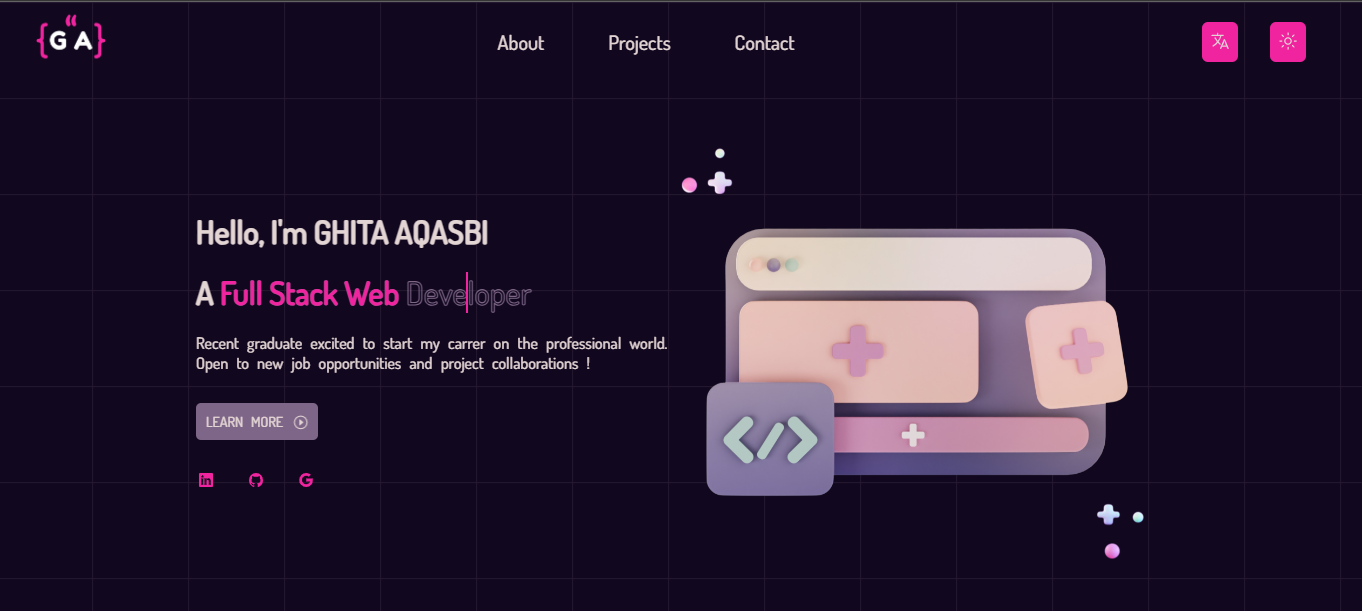
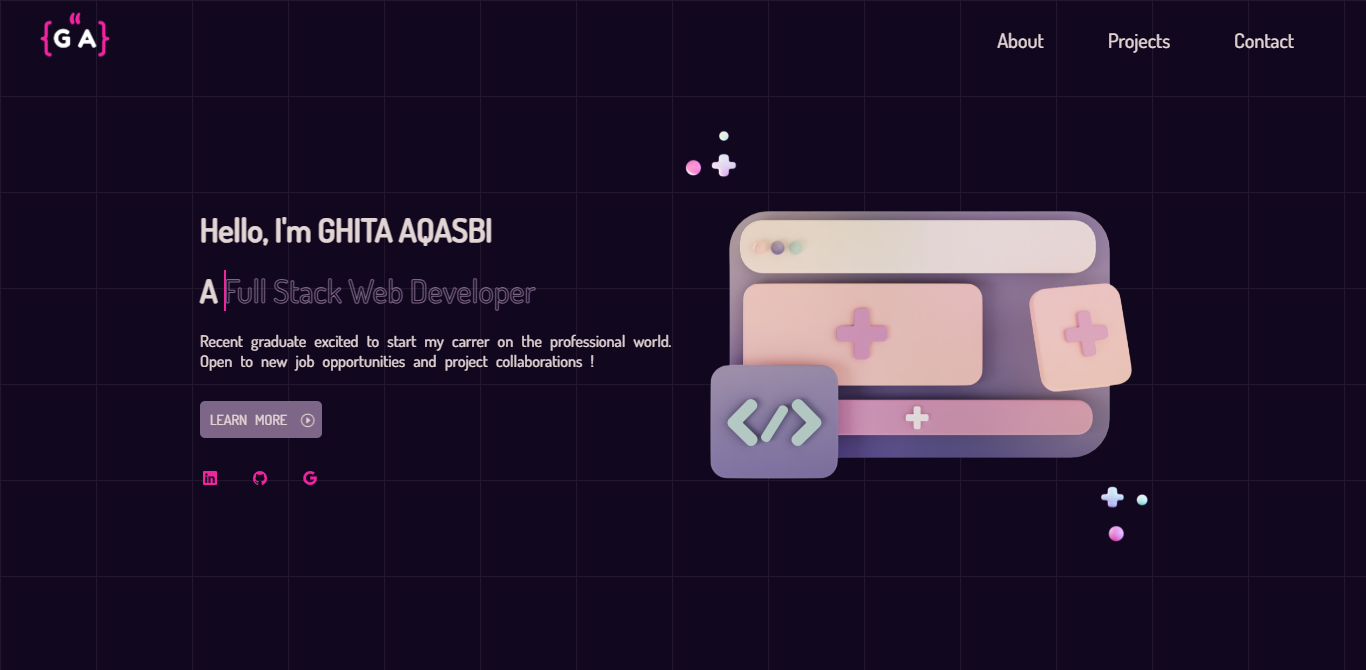
project done

diff --git a/pages/projects.html b/pages/projects.html
@@ -85,11 +85,8 @@ table a:hover{
             <li><a href="projects.html" class="active">Projects</a></li>
             <li><a href="contact.html">Contact</a></li>
         </ul>
-        <ul class="tools">
-            <li><a href=""><ion-icon name="language-outline"></ion-icon></a></li>
-            <li><a href=""><ion-icon name="sunny-outline"></ion-icon></a></li>
-            <li id="mobile-menu" onclick="mobilemenu()"><a href="#" ><ion-icon name="grid-outline"></ion-icon></a></li>
-        </ul>
+        <span id="mobile-menu" onclick="mobilemenu()"><ion-icon name="grid-outline"></ion-icon></span>
+
     </header>
 
     <div class="mobile-menu-overlay" id="mobileMenuOverlay">

diff --git a/pages/contact.html b/pages/contact.html
@@ -90,11 +90,8 @@ footer {
             <li><a href="projects.html">Projects</a></li>
             <li><a href="contact.html" class="active">Contact</a></li>
         </ul>
-        <ul class="tools">
-            <li><a href=""><ion-icon name="language-outline"></ion-icon></a></li>
-            <li><a href=""><ion-icon name="sunny-outline"></ion-icon></a></li>
-            <li id="mobile-menu" onclick="mobilemenu()"><a href="#" ><ion-icon name="grid-outline"></ion-icon></a></li>
-        </ul>
+        <span id="mobile-menu" onclick="mobilemenu()"><ion-icon name="grid-outline"></ion-icon></span>
+
     </header>
 
     <div class="mobile-menu-overlay" id="mobileMenuOverlay">

diff --git a/pages/about.html b/pages/about.html
@@ -90,11 +90,8 @@
             <li><a href="projects.html">Projects</a></li>
             <li><a href="contact.html">Contact</a></li>
         </ul>
-        <ul class="tools">
-            <li><a href=""><ion-icon name="language-outline"></ion-icon></a></li>
-            <li><a href=""><ion-icon name="sunny-outline"></ion-icon></a></li>
-            <li id="mobile-menu" onclick="mobilemenu()"><a href="#" ><ion-icon name="grid-outline"></ion-icon></a></li>
-        </ul>
+        <span id="mobile-menu" onclick="mobilemenu()"><ion-icon name="grid-outline"></ion-icon></span>
+
     </header>
 
     <div class="mobile-menu-overlay" id="mobileMenuOverlay">

diff --git a/index.html b/index.html
@@ -129,11 +129,7 @@
         <li><a href="pages/projects.html">Projects</a></li>
         <li><a href="pages/contact.html">Contact</a></li>
     </ul>
-    <ul class="tools">
-        <li><a href=""><ion-icon name="language-outline"></ion-icon></a></li>
-        <li><a href=""><ion-icon name="sunny-outline"></ion-icon></a></li>
-        <li id="mobile-menu" onclick="mobilemenu()"><a href="#" ><ion-icon name="grid-outline"></ion-icon></a></li>
-    </ul>
+    <span id="mobile-menu" onclick="mobilemenu()"><ion-icon name="grid-outline"></ion-icon></span>
 </header>
 
 <div class="mobile-menu-overlay" id="mobileMenuOverlay">

diff --git a/style.css b/style.css
@@ -108,13 +108,15 @@ header ul li a:hover{
     color: white;
     background: var(--shining-blue);
 }
-.tools li a{
+#mobile-menu{
     background-color: var(--shining-blue);
     transition: all 0.15s ease-in-out 0s;
     font-weight: 800;
+    border-radius: 6px;
+    text-align: center;
     padding: 8px 8px 6px 8px;
 }
-.tools li a:hover{
+#mobile-menu:hover{
     background-color: #b30c71;
 
 }
